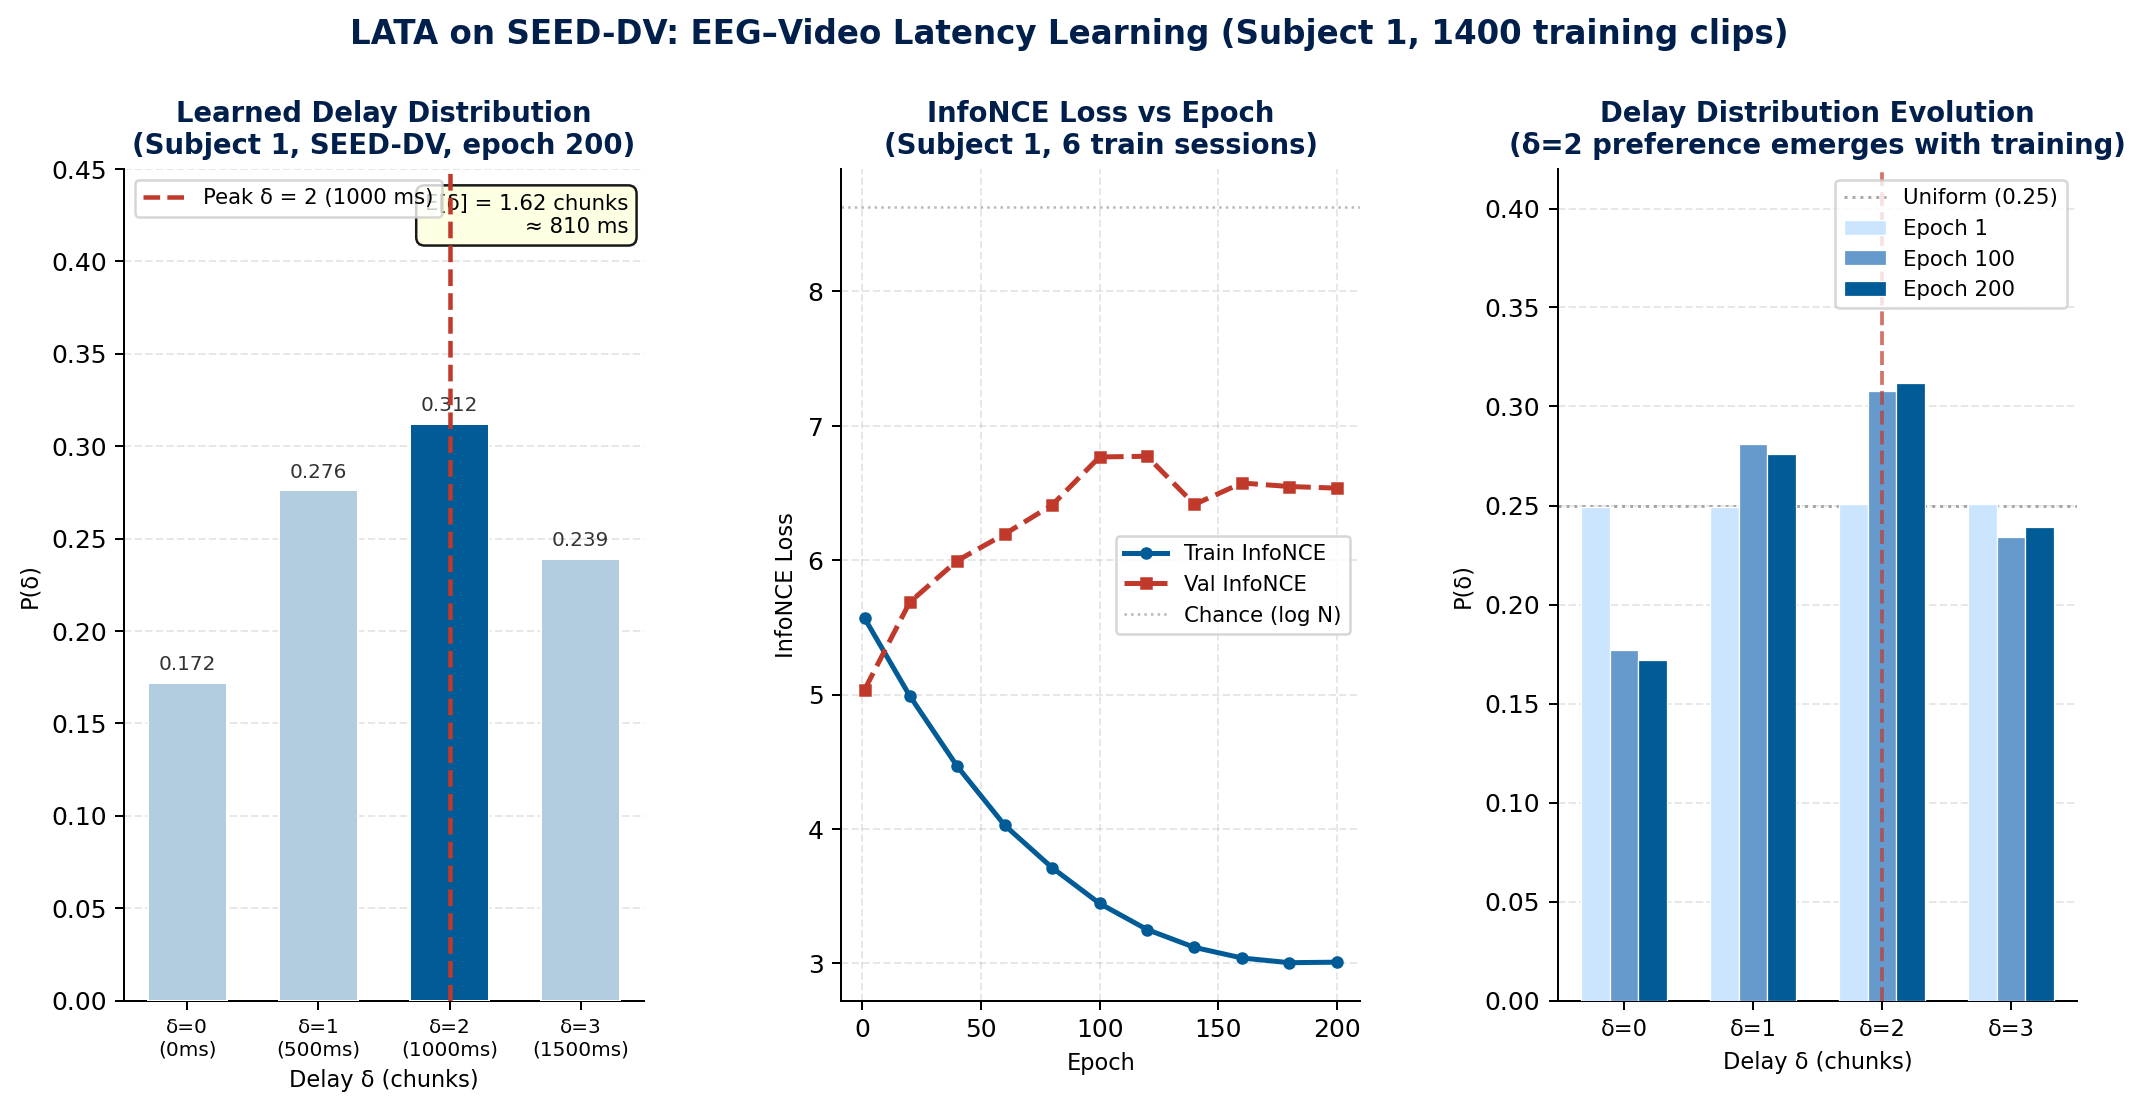
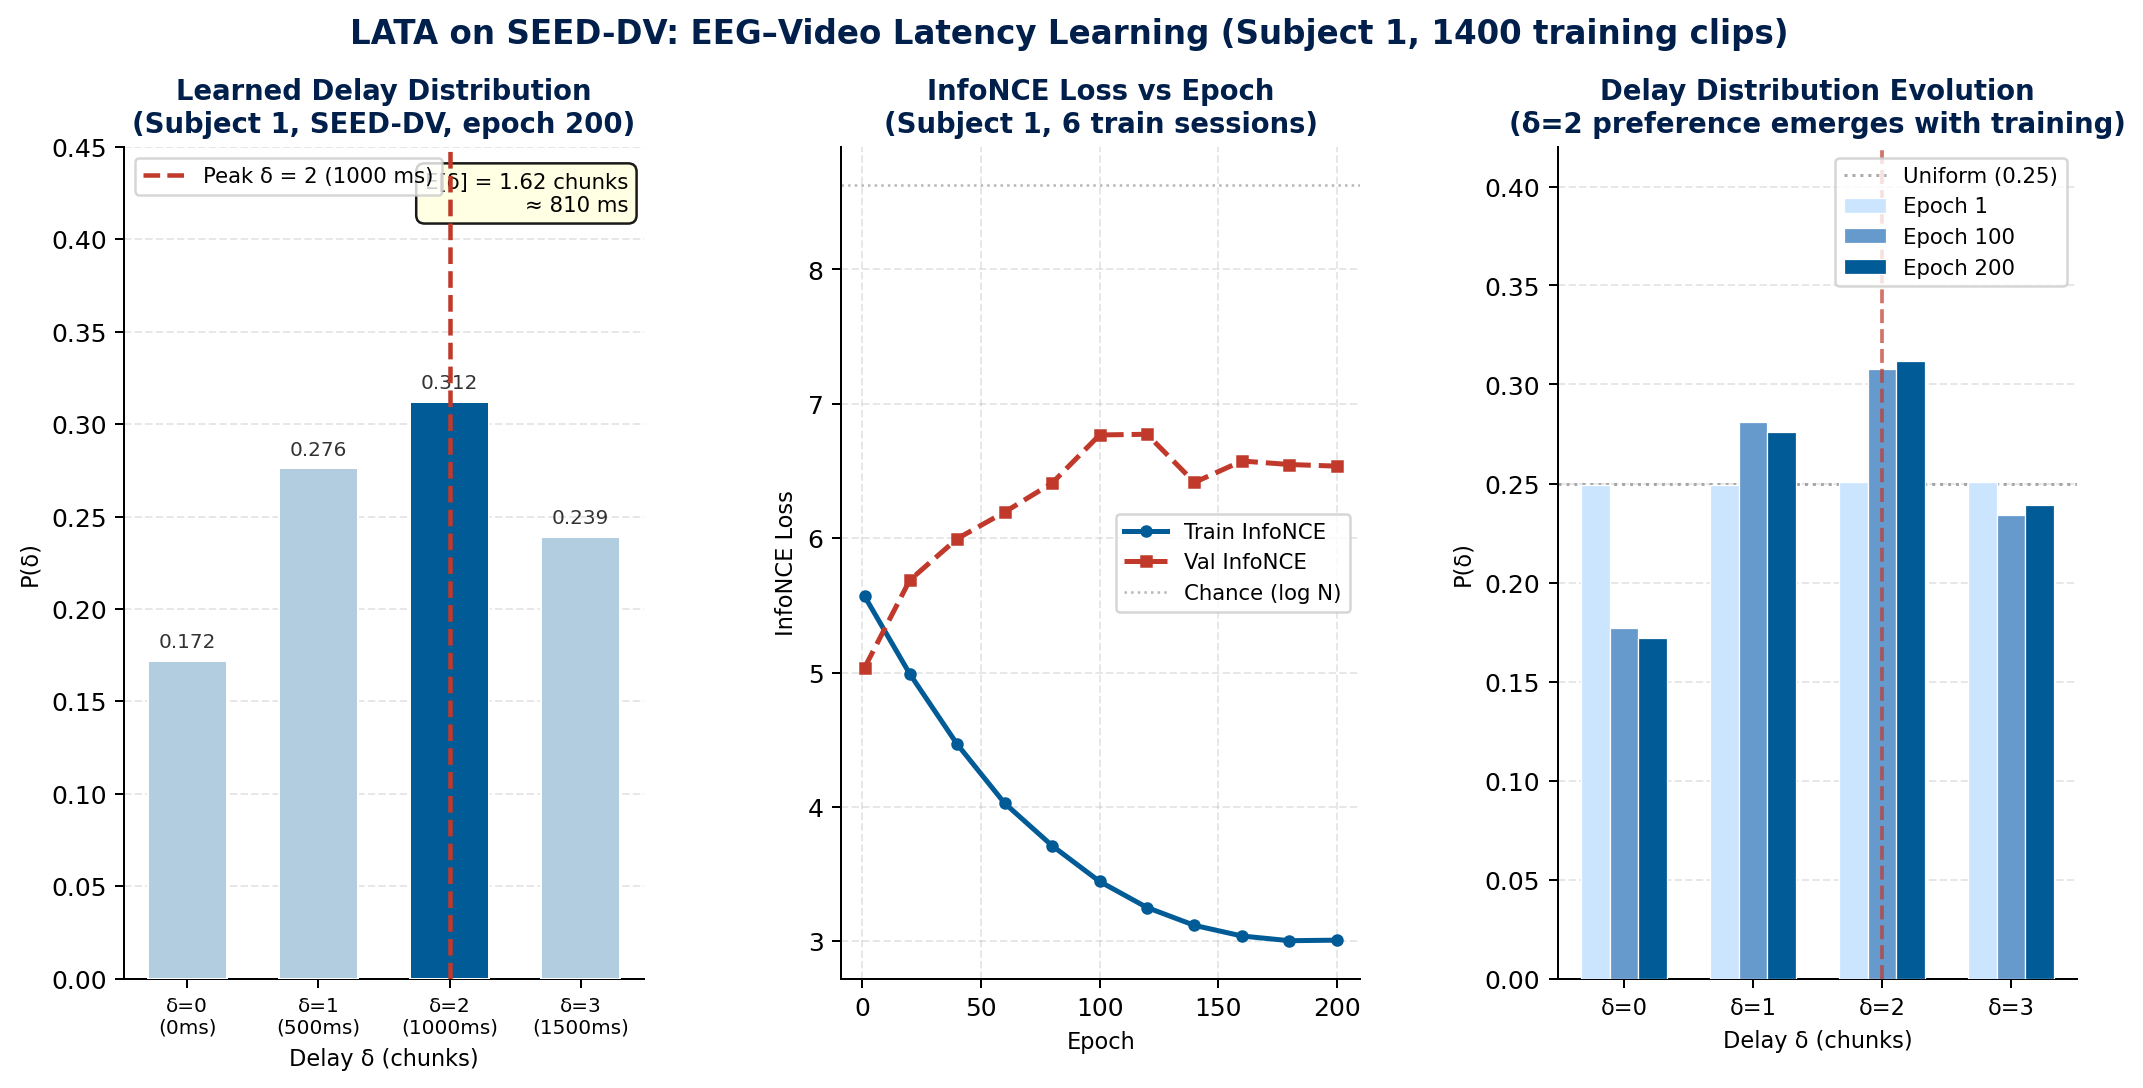
Fix suptitle clipping in lata_seeddv_results.png

diff --git a/lata/plot_seeddv_results.py b/lata/plot_seeddv_results.py
@@ -105,8 +105,9 @@ ax3.spines[["top", "right"]].set_visible(False)
 
 fig.suptitle(
     "LATA on SEED-DV: EEG–Video Latency Learning (Subject 1, 1400 training clips)",
-    fontsize=13, fontweight="bold", color="#011f4b", y=1.02
+    fontsize=13, fontweight="bold", color="#011f4b", y=1.0
 )
+plt.subplots_adjust(top=0.88)
 
 out = os.path.join(os.path.dirname(__file__), "lata_seeddv_results.png")
 plt.savefig(out, dpi=180, bbox_inches="tight", facecolor="white")